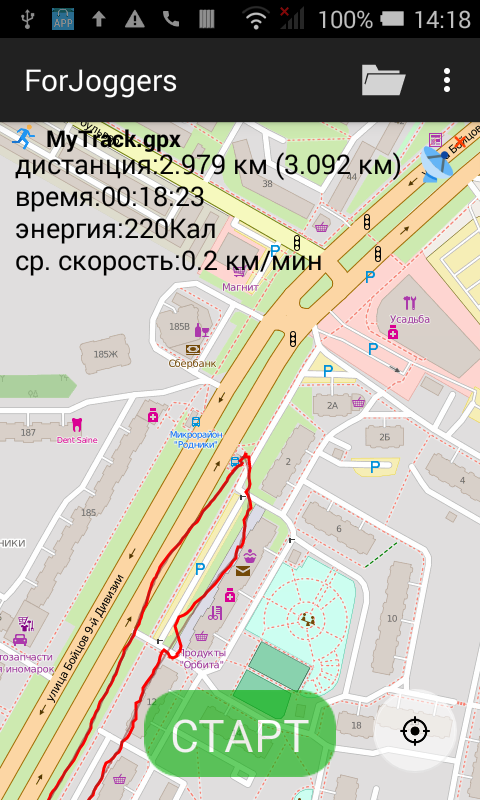
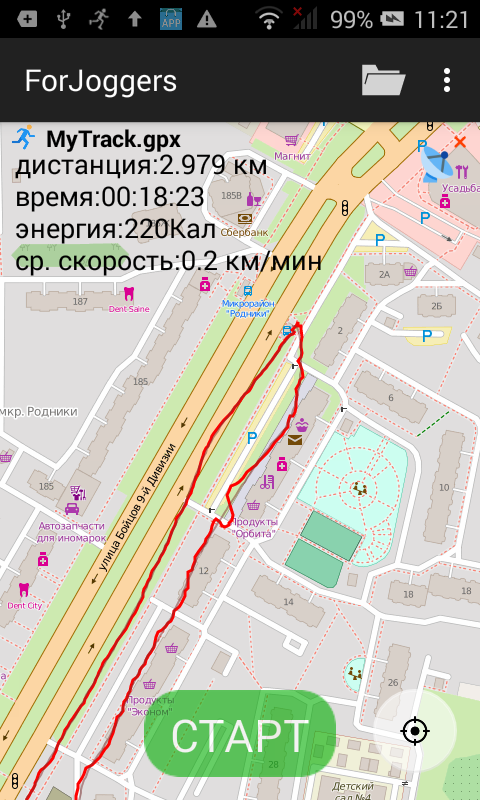
new screenshots. a redundant permissin was removed

diff --git a/app/src/main/java/com/kivsw/forjoggers/ui/MapFragment.java b/app/src/main/java/com/kivsw/forjoggers/ui/MapFragment.java
@@ -16,7 +16,6 @@ import android.widget.ImageView;
 import android.widget.TextView;
 
 import com.kivsw.dialog.MessageDialog;
-import com.kivsw.forjoggers.BuildConfig;
 import com.kivsw.forjoggers.R;
 import com.kivsw.forjoggers.helper.SettingsKeeper;
 import com.kivsw.forjoggers.helper.UnitUtils;
@@ -276,17 +275,11 @@ implements
         settings.setZoomLevel(settings.getZoomLevel(), cl.getLatitude(), cl.getLongitude());
     }
 
-
     /**
-     * update the CurrentTrack if it's necessary
+     * shows the current track's information
+     * @param trackSmoother
+     * @param currentTrack
      */
-    /*void updateTrack(boolean always)
-    {
-        if(always || currentTrack.getGeoPoints().size() != originalPath.getNumberOfPoints()) {
-            putCurrentTrackOnMap();
-        }
-        updateTrackInfo();
-    }*/
     public void updateTrackInfo(TrackSmoother trackSmoother, Track currentTrack ) {
 
         switch(currentTrack.getActivityType()) {
@@ -316,11 +309,11 @@ implements
 
         str.append(getText(R.string.distance));
         str.append(unitUtils.distanceToStr(distance));
-        if (BuildConfig.DEBUG) {
+        /*if (BuildConfig.DEBUG) {
             str.append(" (");
             str.append(unitUtils.distanceToStr(currentTrack.getTrackDistance()));
             str.append(")");
-        }
+        }*/
         str.append("\n");
 
         str.append(getText(R.string.time));
